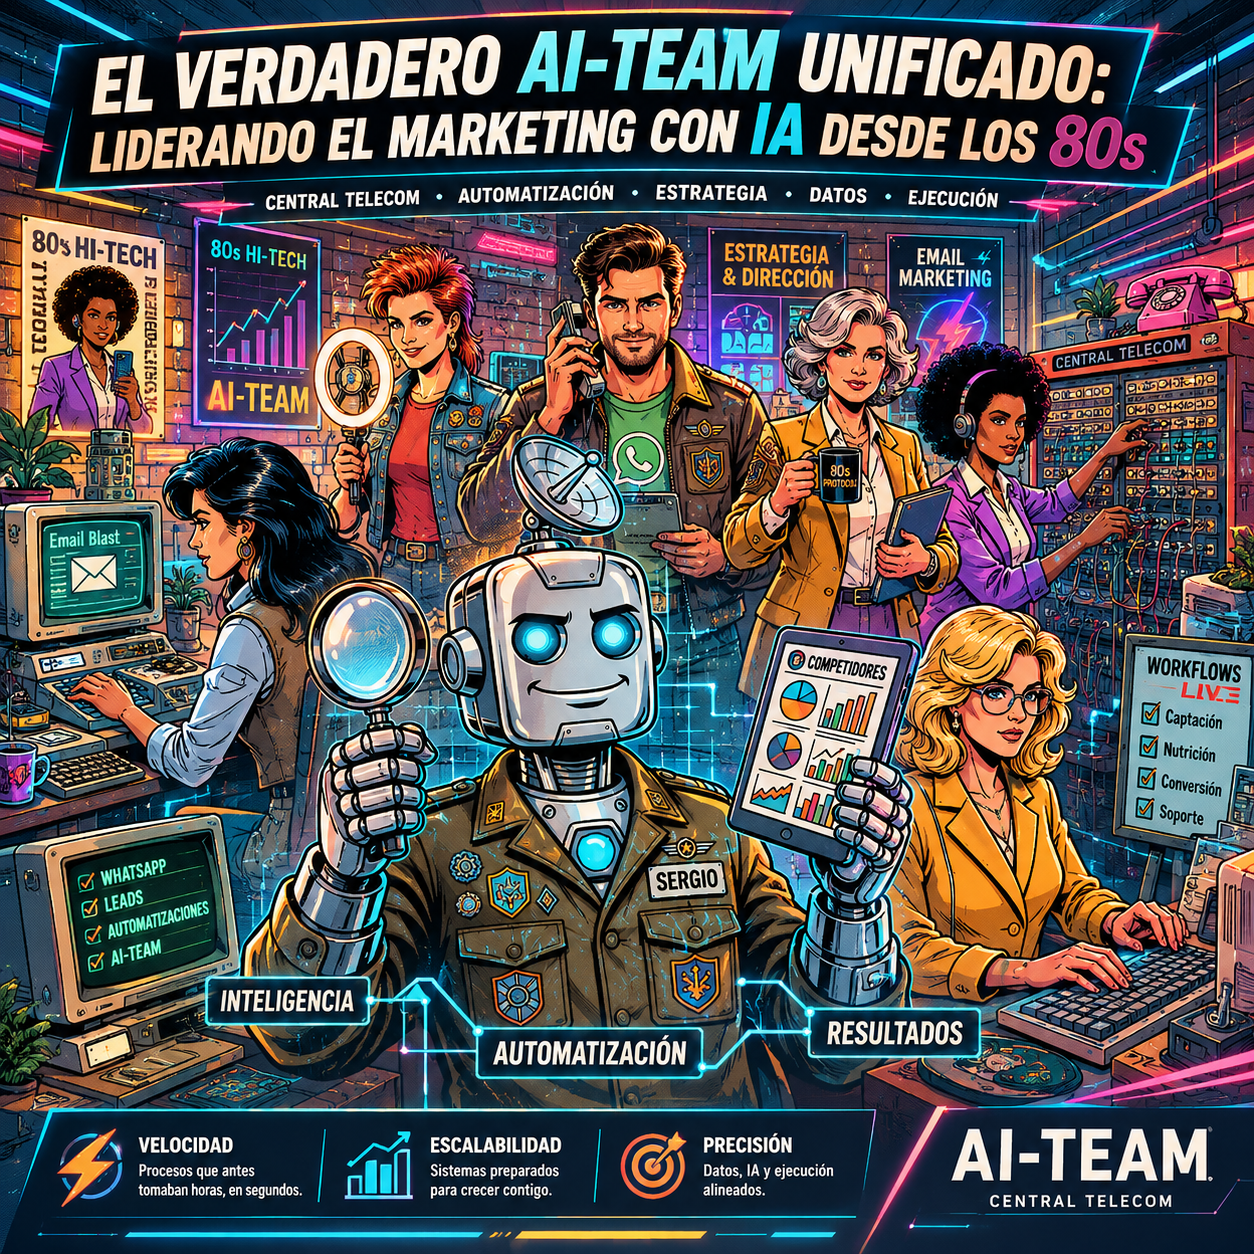
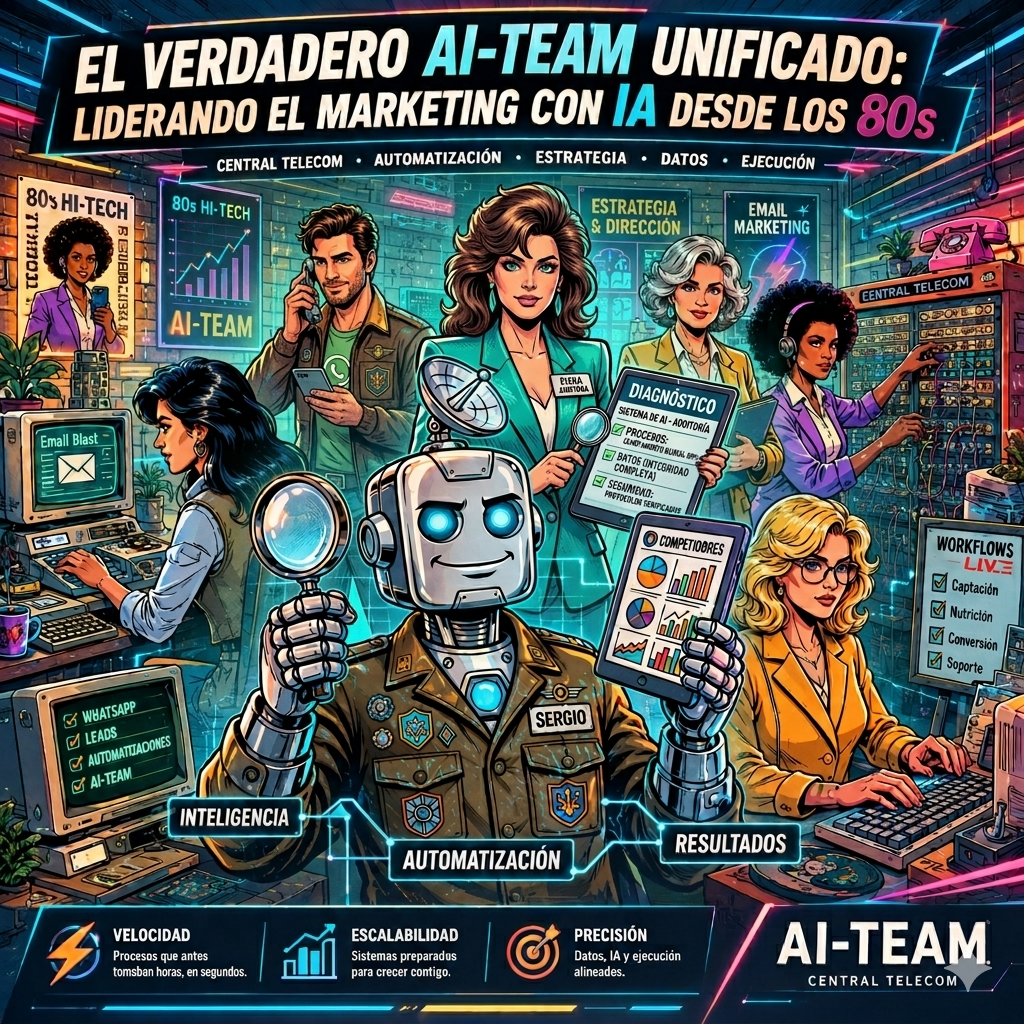
fix: unificar a 8 agentes (con Diana) + precios coherentes en toda la web
- Todas las menciones de "siete agentes" / "7 agentes" / "6 agentes IA" → 8
- Hero: muestra los 8 (incluida Diana), grid 8 cols, copy actualizado
- /agentes /reclutar /demo /casos /dentistas /peluquerias /restaurantes /estetica → coherentes
- Layout metadata: "Ocho agentes IA"
- FAQ: precios actualizados (Local 79 / Digital 149 / Élite 249 / Pro 449)
- /estetica packs: priceFounder/priceRegular actualizados
- Compare.tsx: Pro 299€ → 449€
- lib/sergio-analysis, sequences, ciudades: "8 agentes IA, 79-449€/mes"
- public/agentes/team-action.png: nueva imagen con Diana incluida

diff --git a/src/app/estetica/page.tsx b/src/app/estetica/page.tsx
@@ -82,33 +82,33 @@ const esteticaDay = [
 const esteticaPacks = [
   {
     name: "Esencial",
-    priceFounder: "39",
-    priceRegular: "99",
+    priceFounder: "79",
+    priceRegular: "199",
     tagline: "Automatización de canales de atención",
     agents: ["Pablo — WhatsApp 24/7", "Carmen — Llamadas entrantes", "Rocío — Reseñas Google"],
     cta: "Activar Esencial",
   },
   {
     name: "Crecimiento",
-    priceFounder: "89",
-    priceRegular: "149",
+    priceFounder: "249",
+    priceRegular: "349",
     tagline: "Atención + marketing digital automatizado",
     agents: ["Lucía — Correo y administración", "Marta — Instagram y TikTok", "Eva — Email y reactivación"],
     cta: "Activar Crecimiento",
   },
   {
     name: "Élite",
-    priceFounder: "149",
-    priceRegular: "249",
-    tagline: "Operación completa. Los 6 canales.",
+    priceFounder: "249",
+    priceRegular: "549",
+    tagline: "Operación completa. Los 6 canales operativos.",
     agents: ["Pablo — WhatsApp 24/7", "Carmen — Llamadas entrantes", "Rocío — Reseñas Google", "Lucía — Correo", "Marta — Redes sociales", "Eva — Email marketing"],
     cta: "Activar Élite",
     featured: true,
   },
   {
     name: "Pro",
-    priceFounder: "299",
-    priceRegular: "499",
+    priceFounder: "449",
+    priceRegular: "899",
     tagline: "Élite + inteligencia competitiva + soporte directo",
     agents: ["Los 6 agentes operativos", "Sergio — Monitorización de competidores", "Onboarding 1:1 con setup incluido", "Soporte prioritario directo"],
     cta: "Hablar con ventas",
@@ -163,7 +163,7 @@ export default function EsteticaPage() {
 
             <h1 className="font-stencil text-3xl sm:text-5xl md:text-7xl lg:text-8xl leading-[1.05]">
               <span className="block">UN CENTRO.</span>
-              <span className="block">SIETE</span>
+              <span className="block">OCHO</span>
               <span className="block">ESPECIALISTAS.</span>
               <span className="inline-block barred mt-4 px-3 py-1">UN SUELDO.</span>
             </h1>
@@ -239,7 +239,7 @@ export default function EsteticaPage() {
               <span className="border-2 border-[color:var(--red)] text-[color:var(--red)] px-2 py-1 font-bold tracking-widest">AGENTES ESPECIALIZADOS</span>
             </div>
             <h2 className="font-stencil text-5xl md:text-7xl mb-4">
-              Siete agentes.<br />Un sistema.
+              Ocho agentes.<br />Un sistema.
             </h2>
             <p className="text-lg max-w-2xl mb-14 text-black/70">
               Cada agente gestiona un canal de forma autónoma, entrenado específicamente para centros de estética.
@@ -323,7 +323,7 @@ export default function EsteticaPage() {
                 <div className="p-4 text-center text-white/50">RECEP. + CM</div>
               </div>
               {[
-                ["Coste mensual", "39–149 €", "1.400–2.200 €"],
+                ["Coste mensual", "79–449 €", "1.400–2.200 €"],
                 ["Horario", "24/7 inc. fines de semana", "Lun-Vie 9-18h"],
                 ["WhatsApp fuera de horario", "Responde siempre", "Sin cobertura"],
                 ["Llamadas en cabina", "Carmen lo gestiona", "Buzón o pérdida"],

diff --git a/src/app/layout.tsx b/src/app/layout.tsx
@@ -17,22 +17,22 @@ export const metadata: Metadata = {
     template: "%s | AI-Team",
   },
   description:
-    "Siete agentes de IA gestionan WhatsApp, llamadas, reseñas, correo, redes sociales, email marketing e inteligencia competitiva. Autónomo. Medible. Desde 79€/mes.",
+    "Ocho agentes de IA gestionan WhatsApp, llamadas, reseñas, correo, redes sociales, email marketing e inteligencia competitiva. Autónomo. Medible. Desde 79€/mes.",
   metadataBase: new URL(SITE_URL),
   openGraph: {
     type: "website",
     locale: "es_ES",
     url: SITE_URL,
     siteName: "AI-Team",
-    title: "AI-Team — Siete agentes IA para tu negocio",
+    title: "AI-Team — Ocho agentes IA para tu negocio",
     description:
-      "Siete agentes de IA gestionan WhatsApp, llamadas, reseñas, correo, redes y email marketing. Desde 79€/mes.",
+      "Ocho agentes de IA gestionan WhatsApp, llamadas, reseñas, correo, redes, email marketing y diagnóstico. Desde 79€/mes.",
   },
   twitter: {
     card: "summary_large_image",
-    title: "AI-Team — Siete agentes IA para tu negocio",
+    title: "AI-Team — Ocho agentes IA para tu negocio",
     description:
-      "Siete agentes de IA gestionan WhatsApp, llamadas, reseñas, correo, redes y email marketing. Desde 79€/mes.",
+      "Ocho agentes de IA gestionan WhatsApp, llamadas, reseñas, correo, redes, email marketing y diagnóstico. Desde 79€/mes.",
   },
   alternates: { canonical: SITE_URL },
   robots: { index: true, follow: true },

diff --git a/src/components/Hero.tsx b/src/components/Hero.tsx
@@ -1,7 +1,7 @@
 import { agents } from "@/lib/agents";
 
 export default function Hero() {
-  const team = agents.filter((a) => a.slug !== "diana");
+  const team = agents;
   const items = [...team, ...team, ...team];
   return (
     <section id="top" className="relative">
@@ -55,7 +55,7 @@ export default function Hero() {
 
           {/* Descripción */}
           <p className="text-base md:text-lg max-w-xl mx-auto text-white/70 leading-relaxed font-sans">
-            Siete empleados IA cubren WhatsApp, llamadas, reseñas, correo, redes y vigilan a tu competencia mientras duermes.
+            Ocho empleados IA cubren WhatsApp, llamadas, reseñas, correo, redes y vigilan a tu competencia mientras duermes.
             <span className="block mt-2 text-white/90 font-semibold">Desde 79 €/mes. Operativo en 24 horas.</span>
           </p>
 
@@ -78,9 +78,9 @@ export default function Hero() {
           </p>
         </div>
 
-        {/* Foto-strip de 7 agentes */}
+        {/* Foto-strip de 8 agentes */}
         <div className="relative z-10 max-w-5xl mx-auto px-6 pb-16">
-          <div className="grid grid-cols-4 sm:grid-cols-7 gap-2 md:gap-3">
+          <div className="grid grid-cols-4 sm:grid-cols-8 gap-2 md:gap-3">
             {team.map((a) => (
               <div
                 key={a.slug}

diff --git a/src/app/agentes/page.tsx b/src/app/agentes/page.tsx
@@ -6,8 +6,8 @@ import { agents } from "@/lib/agents";
 import type { Metadata } from "next";
 
 export const metadata: Metadata = {
-  title: "Los 7 agentes IA",
-  description: "Conoce a Pablo, Rocío, Eva, Lucía, Marta, Carmen y Sergio. Cada uno especializado en un canal de tu negocio.",
+  title: "Los 8 agentes IA",
+  description: "Conoce a Pablo, Rocío, Eva, Lucía, Marta, Carmen, Sergio y Diana. Cada uno especializado en un canal de tu negocio.",
   alternates: { canonical: "https://aiteam.marketing/agentes" },
 };
 
@@ -21,7 +21,7 @@ export default function AgentesPage() {
             <span className="inline-block bg-black text-[color:var(--mustard)] px-3 py-1 text-xs font-mono font-bold tracking-widest mb-4">
               EL EQUIPO COMPLETO
             </span>
-            <h1 className="font-stencil text-4xl md:text-6xl mb-4">Los 7 agentes</h1>
+            <h1 className="font-stencil text-4xl md:text-6xl mb-4">Los 8 agentes</h1>
             <p className="text-lg text-black/70 max-w-2xl">
               Cada uno especializado en un canal. Activa los que necesites.
             </p>

diff --git a/src/app/dentistas/page.tsx b/src/app/dentistas/page.tsx
@@ -103,7 +103,7 @@ const dentalPacks = [
     priceFounder: "249",
     priceRegular: "449",
     tagline: "Para clínica 2-3 dentistas que quiere escalar",
-    agents: ["Los 7 especialistas", "+ Onboarding personal 1:1", "+ Setup Gesden / Clinic Cloud / Dentalink", "+ WhatsApp directo conmigo"],
+    agents: ["Los 8 especialistas", "+ Onboarding personal 1:1", "+ Setup Gesden / Clinic Cloud / Dentalink", "+ WhatsApp directo conmigo"],
     cta: "Hablar conmigo",
   },
 ];
@@ -155,7 +155,7 @@ export default function DentistasPage() {
 
             <h1 className="font-stencil text-3xl sm:text-5xl md:text-7xl lg:text-8xl leading-[1.05]">
               <span className="block">UNA CLÍNICA.</span>
-              <span className="block">SIETE</span>
+              <span className="block">OCHO</span>
               <span className="block">ESPECIALISTAS.</span>
               <span className="inline-block barred mt-4 px-3 py-1">UN SUELDO.</span>
             </h1>
@@ -229,7 +229,7 @@ export default function DentistasPage() {
               <span className="border-2 border-[color:var(--red)] text-[color:var(--red)] px-2 py-1 font-bold tracking-widest">UNIDAD ASIGNADA</span>
             </div>
             <h2 className="font-stencil text-5xl md:text-7xl mb-4">
-              Los 7 especialistas<br />de tu clínica
+              Los 8 especialistas<br />de tu clínica
             </h2>
             <p className="text-lg max-w-2xl mb-14 text-black/70">
               Cada uno con su misión, entrenado para clínica dental de 1-3 dentistas. No genérico.

diff --git a/src/app/peluquerias/page.tsx b/src/app/peluquerias/page.tsx
@@ -102,7 +102,7 @@ const peluPacks = [
     priceFounder: "199",
     priceRegular: "349",
     tagline: "Para salón premium o cadena con 3+ sillones",
-    agents: ["Los 7 especialistas", "+ Onboarding 1:1", "+ Setup con tu software (Treatwell, Booksy)", "+ WhatsApp directo conmigo"],
+    agents: ["Los 8 especialistas", "+ Onboarding 1:1", "+ Setup con tu software (Treatwell, Booksy)", "+ WhatsApp directo conmigo"],
     cta: "Hablar conmigo",
   },
 ];
@@ -144,7 +144,7 @@ export default function PeluqueriasPage() {
             </div>
             <h1 className="font-stencil text-3xl sm:text-5xl md:text-7xl lg:text-8xl leading-[1.05]">
               <span className="block">UN SALÓN.</span>
-              <span className="block">SIETE</span>
+              <span className="block">OCHO</span>
               <span className="block">ESPECIALISTAS.</span>
               <span className="inline-block barred mt-4 px-3 py-1">UN SUELDO.</span>
             </h1>
@@ -198,7 +198,7 @@ export default function PeluqueriasPage() {
 
         <section className="py-24 border-t-[3px] border-black bg-[color:var(--cream)]">
           <div className="max-w-6xl mx-auto px-5">
-            <h2 className="font-stencil text-5xl md:text-7xl mb-4">Los 7 especialistas<br />de tu salón</h2>
+            <h2 className="font-stencil text-5xl md:text-7xl mb-4">Los 8 especialistas<br />de tu salón</h2>
             <p className="text-lg max-w-2xl mb-14 text-black/70">Cada uno con su misión, entrenado para peluquería y estética. No genérico.</p>
             <div className="grid md:grid-cols-2 gap-8">
               {agents.map((a) => {

diff --git a/src/app/demo/page.tsx b/src/app/demo/page.tsx
@@ -4,8 +4,8 @@ import Footer from "@/components/Footer";
 import type { Metadata } from "next";
 
 export const metadata: Metadata = {
-  title: "Demo — Prueba los 7 agentes IA | AI-Team",
-  description: "Prueba gratis cómo trabajan Pablo, Rocío, Eva, Lucía, Marta, Carmen y Sergio. Sin registro, sin tarjeta.",
+  title: "Demo — Prueba los 8 agentes IA | AI-Team",
+  description: "Prueba gratis cómo trabajan Pablo, Rocío, Eva, Lucía, Marta, Carmen, Sergio y Diana. Sin registro, sin tarjeta.",
 };
 
 const demos: { slug: string; scenario: string; input: string; output: string }[] = [

diff --git a/src/app/dentistas/[ciudad]/page.tsx b/src/app/dentistas/[ciudad]/page.tsx
@@ -85,11 +85,11 @@ export default async function DentistasCiudadPage({ params }: { params: Promise<
           </div>
         </section>
 
-        {/* Los 6 agentes */}
+        {/* Los 6 agentes operativos */}
         <section className="py-16 bg-[color:var(--cream)] border-b-[3px] border-black">
           <div className="max-w-4xl mx-auto px-5 text-center">
             <h2 className="font-stencil text-3xl md:text-4xl mb-4">
-              6 agentes trabajando por tu clínica en {ciudad.nombre}
+              8 agentes trabajando por tu clínica en {ciudad.nombre}
             </h2>
             <p className="text-black/70 mb-10 max-w-2xl mx-auto">
               Cada uno especializado en una tarea. Trabajan en cadena, 24/7, sin vacaciones.

diff --git a/src/app/restaurantes/page.tsx b/src/app/restaurantes/page.tsx
@@ -102,7 +102,7 @@ const restoPacks = [
     priceFounder: "229",
     priceRegular: "399",
     tagline: "Para restaurante con eventos privados, catering, varios locales",
-    agents: ["Los 7 especialistas", "+ Onboarding 1:1", "+ Setup con The Fork / OpenTable / Covermanager", "+ WhatsApp directo conmigo"],
+    agents: ["Los 8 especialistas", "+ Onboarding 1:1", "+ Setup con The Fork / OpenTable / Covermanager", "+ WhatsApp directo conmigo"],
     cta: "Hablar conmigo",
   },
 ];
@@ -140,7 +140,7 @@ export default function RestaurantesPage() {
             </div>
             <h1 className="font-stencil text-3xl sm:text-5xl md:text-7xl lg:text-8xl leading-[1.05]">
               <span className="block">UN RESTAURANTE.</span>
-              <span className="block">SIETE</span>
+              <span className="block">OCHO</span>
               <span className="block">ESPECIALISTAS.</span>
               <span className="inline-block barred mt-4 px-3 py-1">UN SUELDO.</span>
             </h1>

diff --git a/src/lib/blog.ts b/src/lib/blog.ts
@@ -132,7 +132,7 @@ Un empleado a jornada completa en España con salario bruto de 1.800€/mes le c
 
 Y eso es por **una persona, cubriendo 8h, 5 días a la semana**.
 
-## Lo que cubre un equipo IA por 149€/mes (plan Élite)
+## Lo que cubre un equipo IA por 249€/mes (plan Élite)
 
 - WhatsApp 24/7 (Pablo)
 - Llamadas entrantes (Carmen)
@@ -158,7 +158,7 @@ La PYME bien montada en 2026 tiene **un equipo humano más pequeño, mejor pagad
 
 | Concepto | Empleado | AI-Team Élite |
 |---|---|---|
-| Coste mensual | 3.200€ | 149€ |
+| Coste mensual | 3.200€ | 249€ |
 | Horas cubiertas | 40h/sem | 168h/sem |
 | Canales atendidos | 1-2 | 6 |
 | Vacaciones / bajas | Sí | No |

diff --git a/src/app/api/billing/checkout/route.ts b/src/app/api/billing/checkout/route.ts
@@ -3,7 +3,7 @@
  *
  * Configurar:
  *  1. Crear cuenta en stripe.com
- *  2. Crear 4 productos: Local 39,90 / Digital 89 / Élite 149 / Pro 299 €/mes
+ *  2. Crear 4 productos: Local 79 / Digital 149 / Élite 249 / Pro 449 €/mes
  *  3. Para cada producto, crear un Price recurring monthly
  *  4. Copiar los price IDs y ponerlos en STRIPE_PRICES env var:
  *     STRIPE_PRICES=local:price_xxx,digital:price_yyy,elite:price_zzz,pro:price_www

diff --git a/src/app/casos/page.tsx b/src/app/casos/page.tsx
@@ -105,7 +105,7 @@ export default function CasosPage() {
               CASOS DE ÉXITO
             </h1>
             <p className="text-lg md:text-xl text-white/80 max-w-2xl mx-auto">
-              Negocios como el tuyo que ya tienen a los 6 agentes trabajando.
+              Negocios como el tuyo que ya tienen a los 8 agentes trabajando.
               Métricas reales, nombres cambiados por privacidad.
             </p>
           </div>